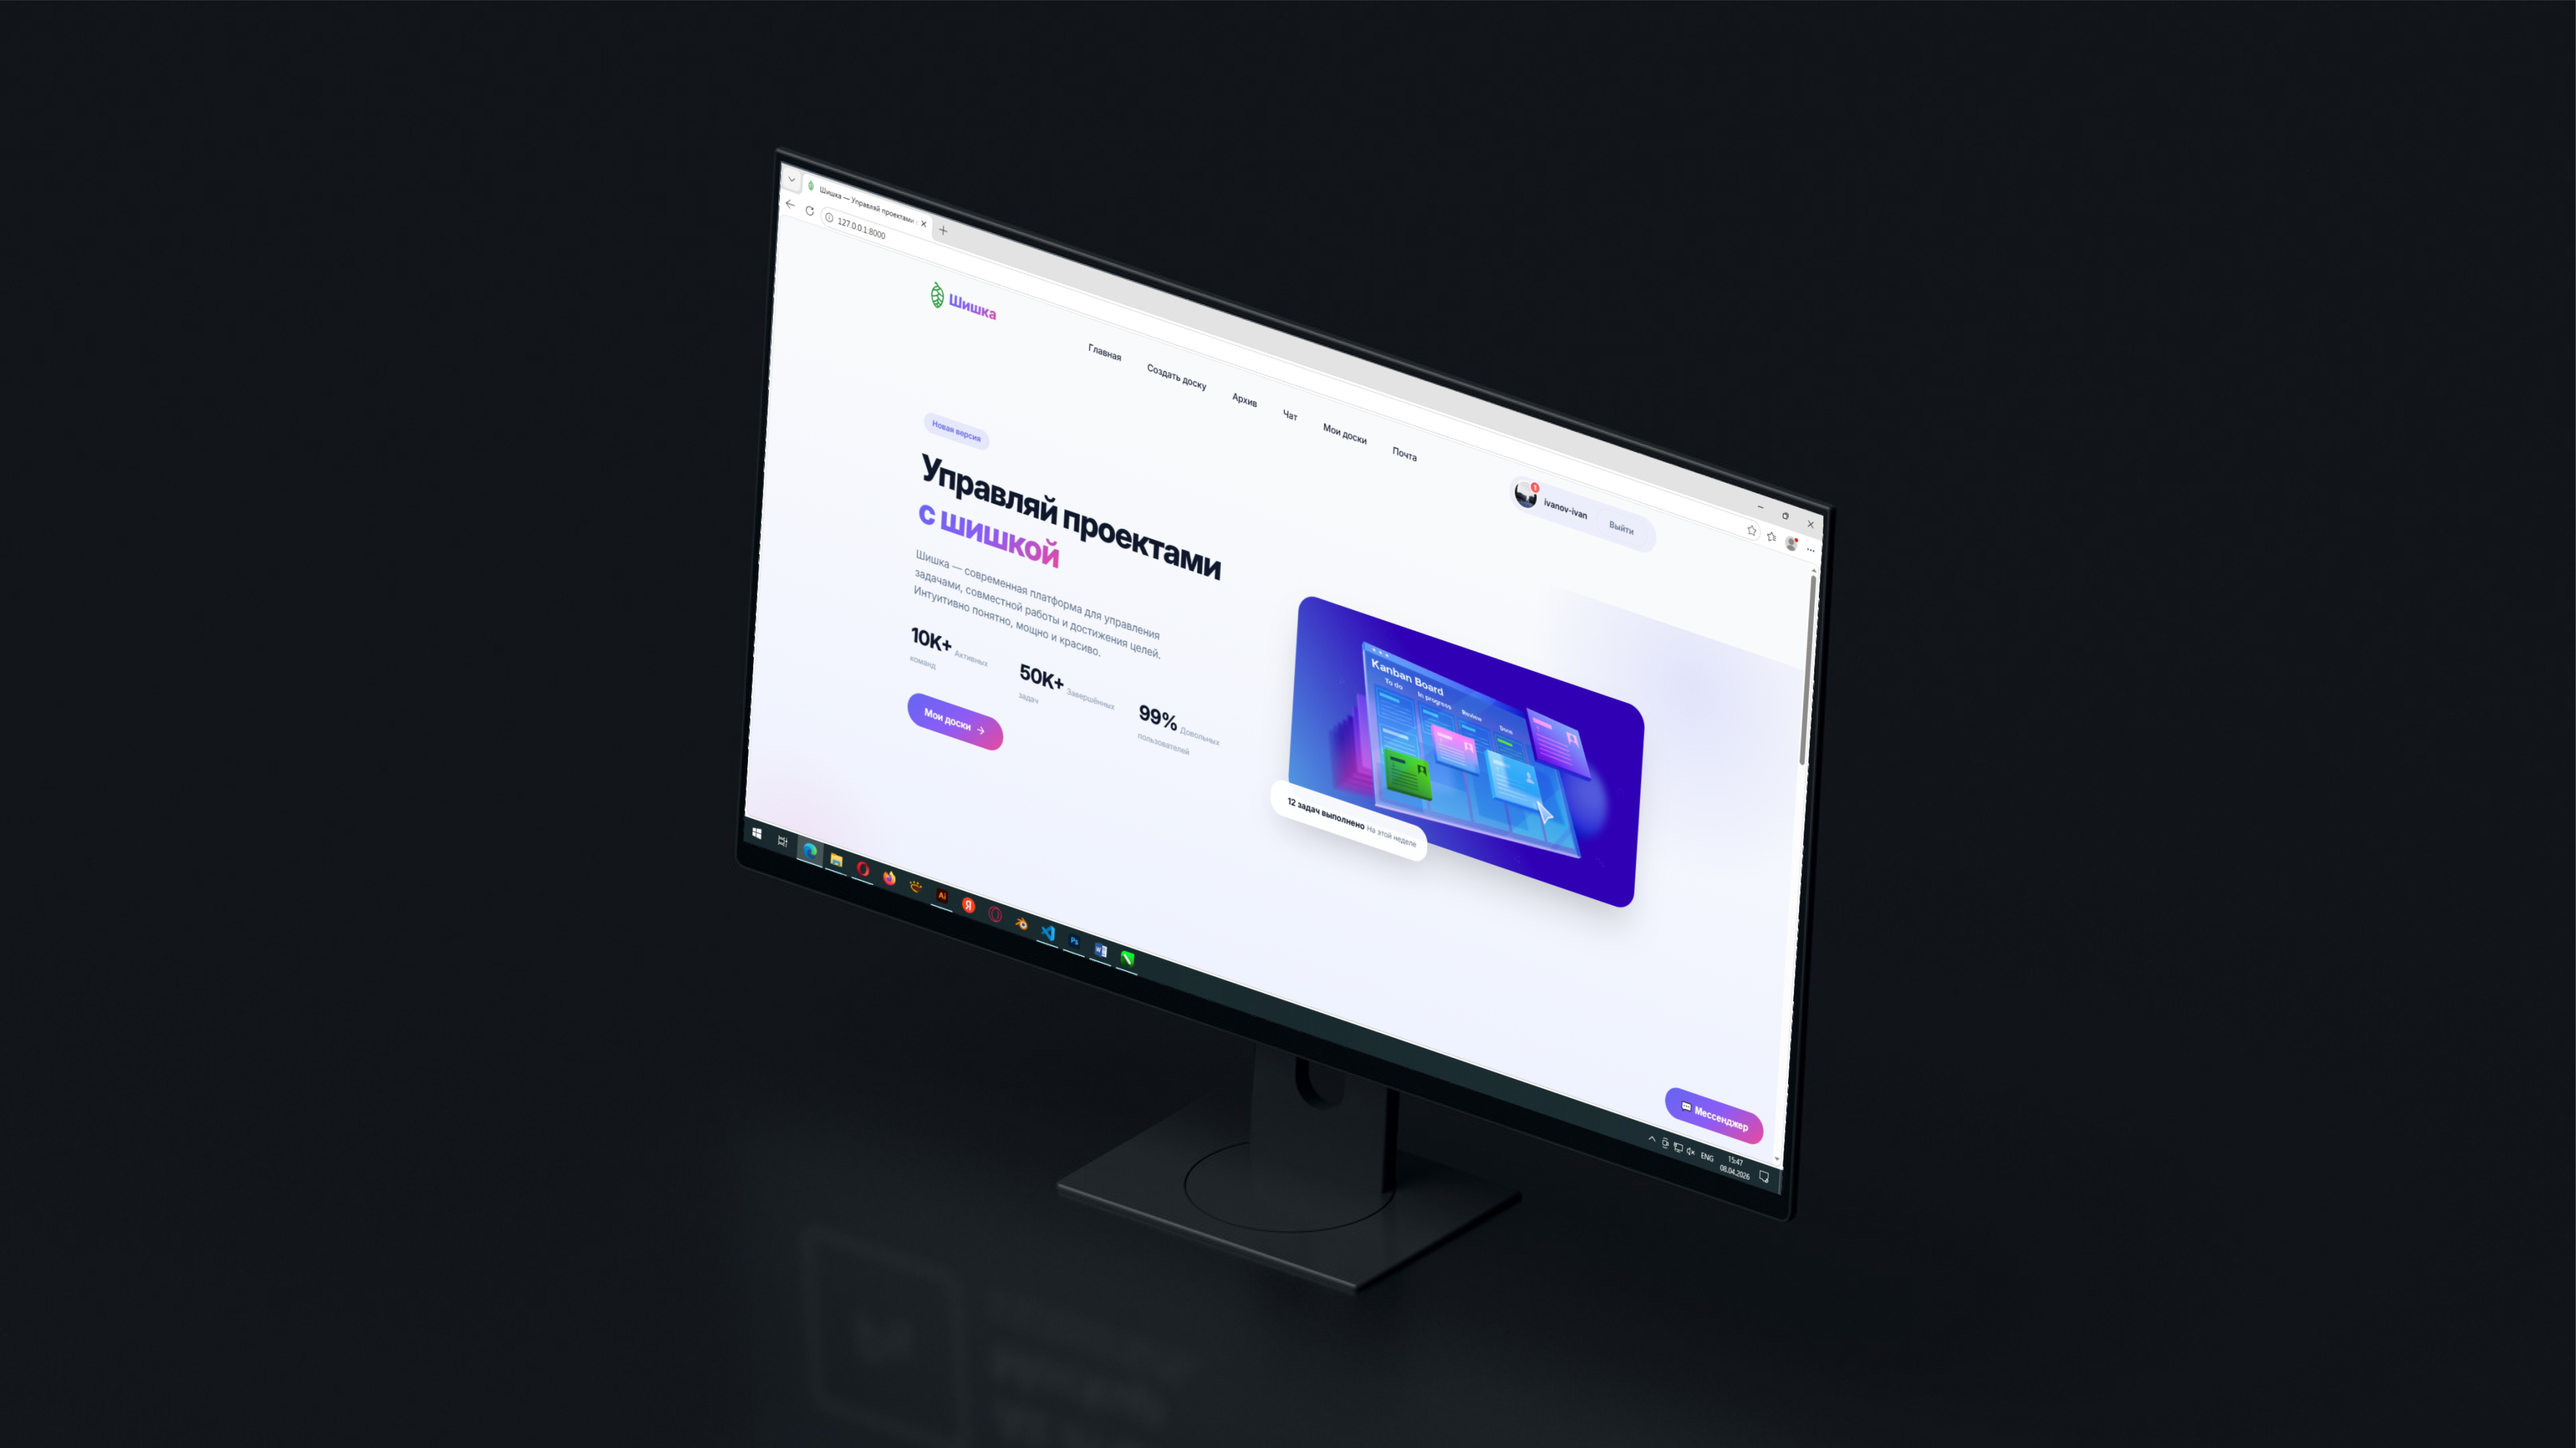
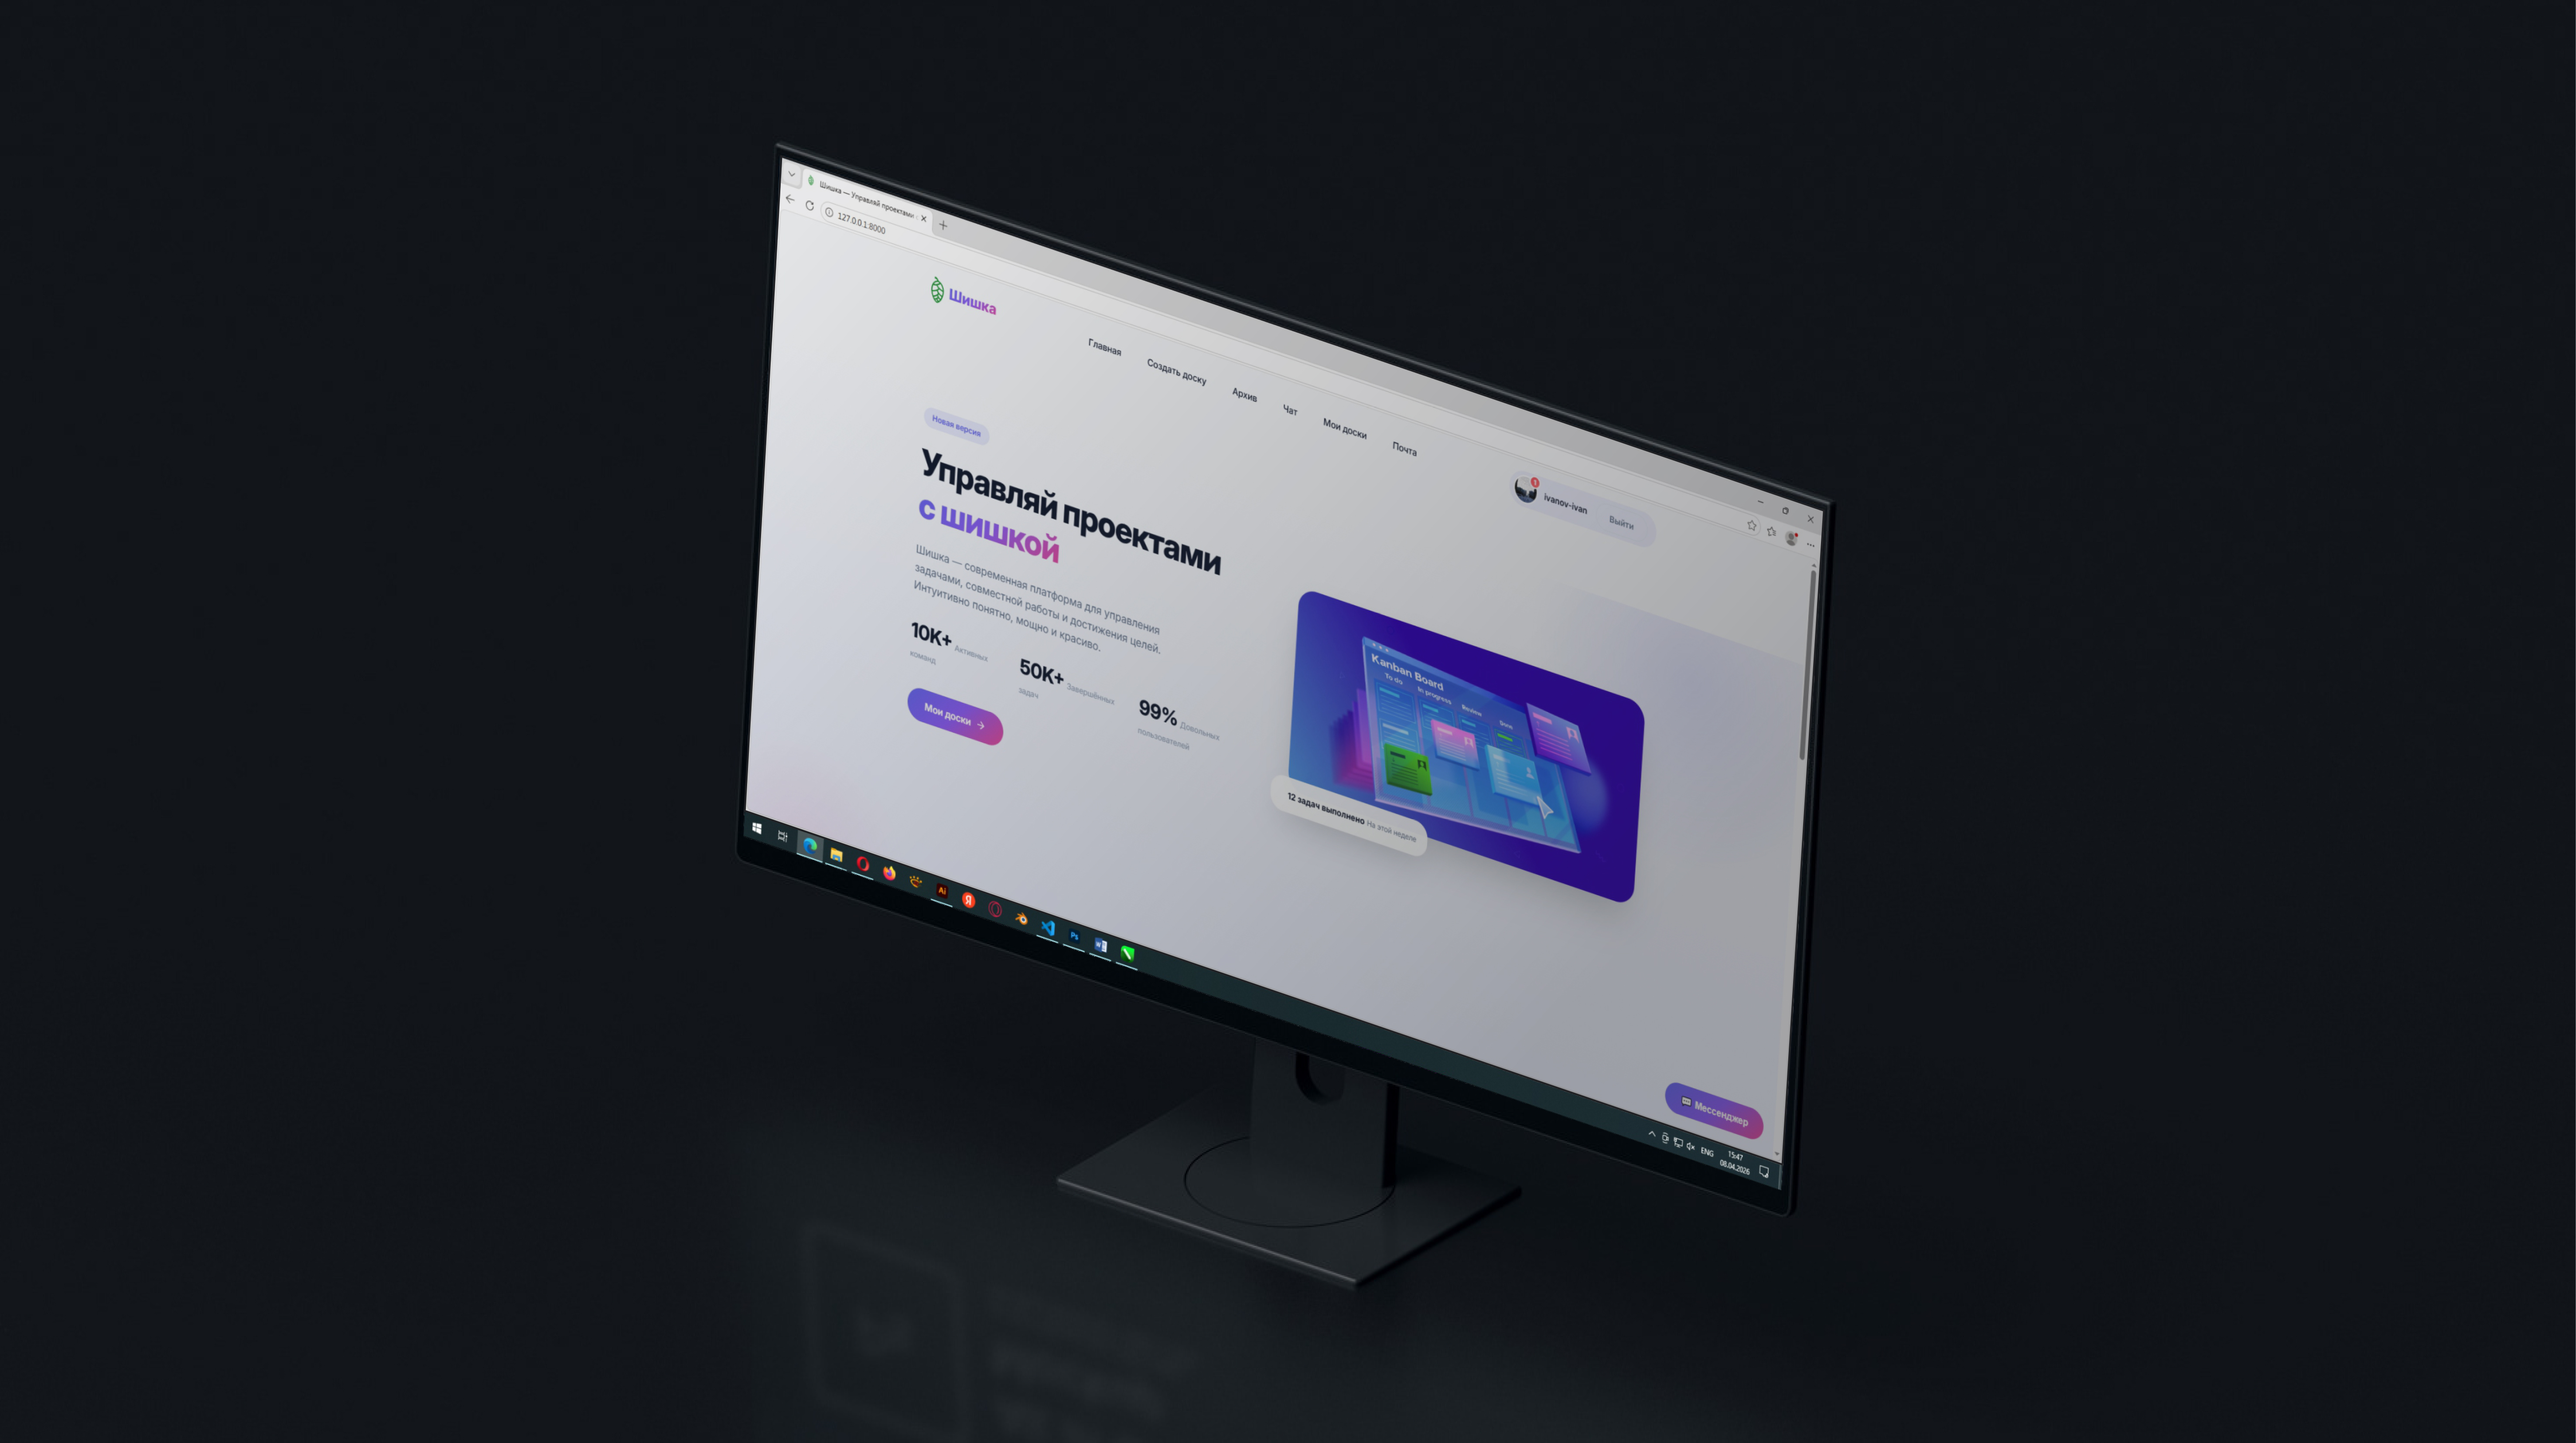
update: css

Changed region(s): [[0.2804, 0.0934, 0.7166, 0.8091]]

diff --git a/src/App.css b/src/App.css
@@ -164,6 +164,7 @@ html, body {
   height: 120px;
   border-radius: 50%;
   border: 1px solid white;
+  border-bottom: 2px solid white;
   display: flex;
   align-items: center;
   justify-content: center;
@@ -175,7 +176,7 @@ html, body {
   content: "";
   position: absolute;
   inset: 0;
-  background: url("./assets/grunge-wall-texture.jpg") center/cover no-repeat;
+  background: url("./assets/wall-texture-circle.jpg") center/cover no-repeat;
   opacity: 0.2; /* ВОТ КЛЮЧ */
   z-index: 1;
   border-radius: 50%;
